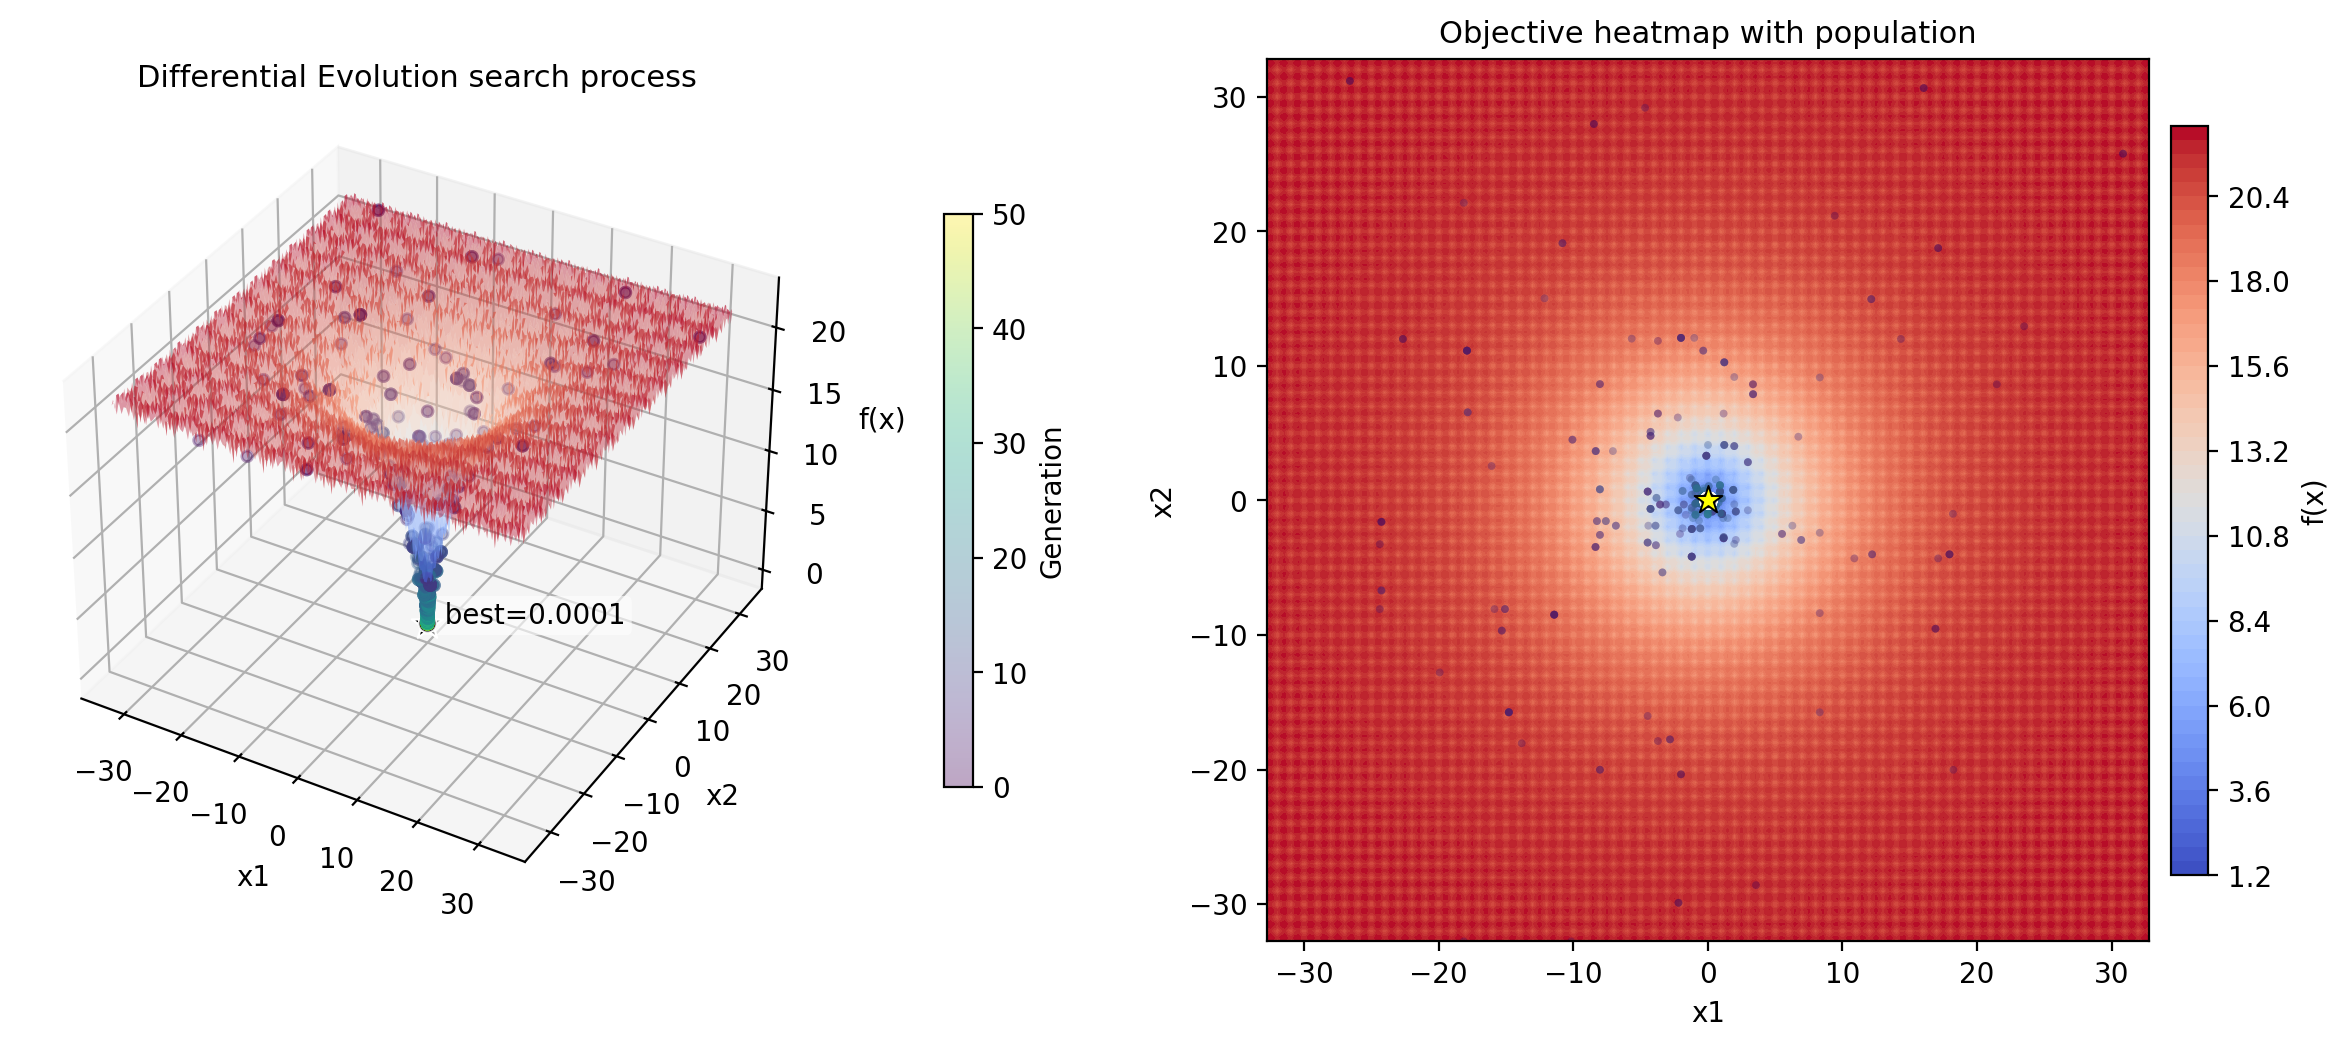
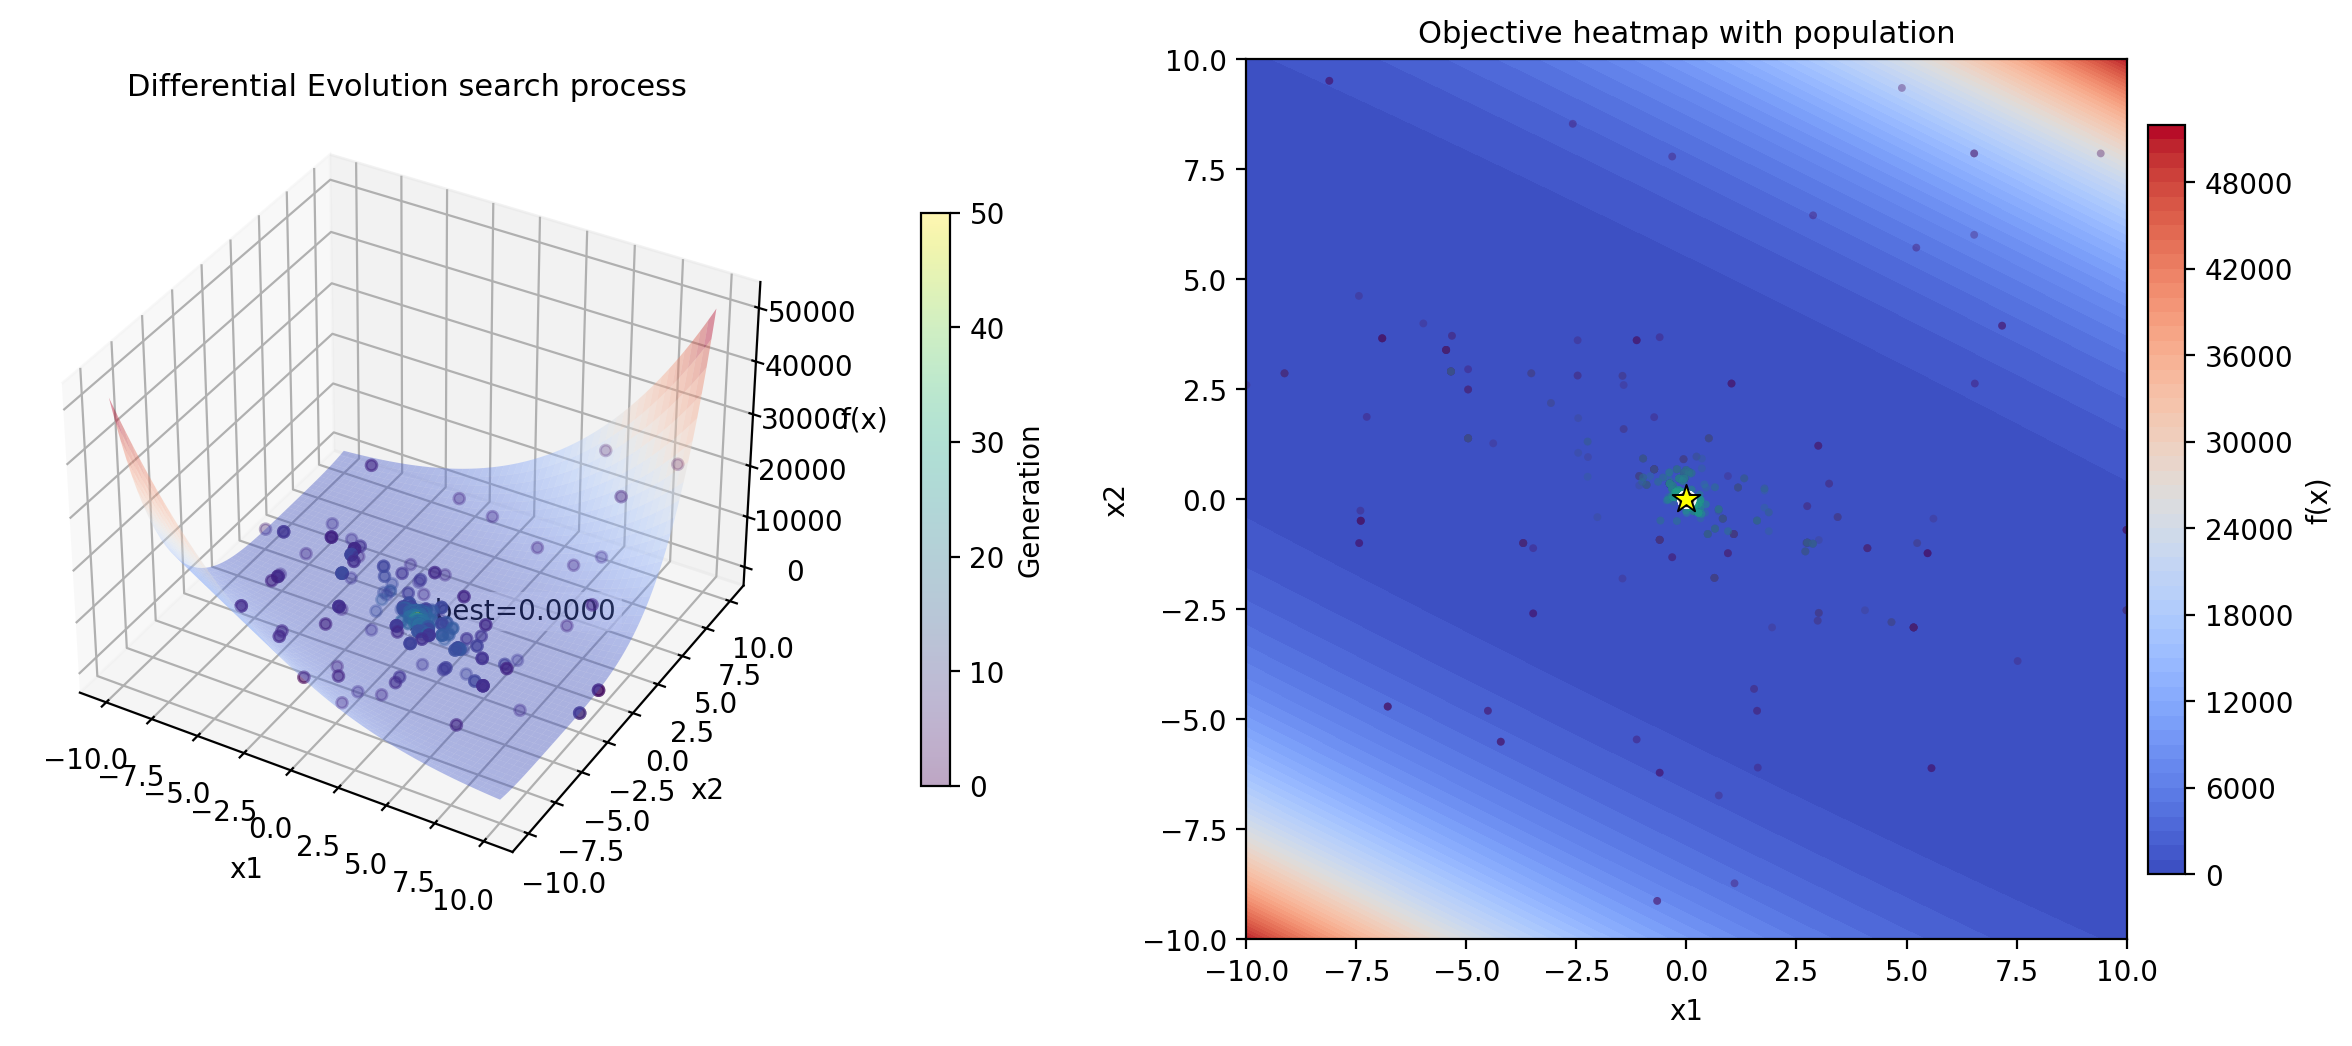
cviko6

diff --git a/particle_swarm/pso.py b/particle_swarm/pso.py
@@ -1,0 +1,119 @@
+"""Optimalizátor Particle Swarm Optimization (PSO) so zotrvačnosťou."""
+from __future__ import annotations
+
+from dataclasses import dataclass
+from typing import Callable, Sequence, Tuple
+
+import numpy as np
+
+from differential_evolution.de import _validate_bounds
+
+
+# Typ aliasy pre prehľadnosť
+Objective = Callable[[np.ndarray], float]
+Bounds = Sequence[Tuple[float, float]]
+
+
+@dataclass
+class PSOConfig:
+    """Konfigurácia pre PSO."""
+
+    population_size: int = 15   # veľkosť roja (popsize)
+    iterations: int = 50        # M_max
+    inertia_weight: float = 0.7  # w
+    cognitive_coef: float = 2.0  # c1
+    social_coef: float = 2.0     # c2
+    velocity_clamp: float | None = None  # max |v| pre každú dimenziu (symetricky)
+    seed: int | None = None
+
+
+@dataclass
+class PSOResult:
+    """Výsledok PSO optimalizácie."""
+
+    best_point: np.ndarray
+    best_value: float
+    position_history: np.ndarray   # tvar: (iterácie + 1, popsize, dims)
+    velocity_history: np.ndarray   # tvar: (iterácie + 1, popsize, dims)
+    fitness_history: np.ndarray    # tvar: (iterácie + 1, popsize)
+    best_fitness_per_iteration: np.ndarray  # najlepšia hodnota po každej iterácii
+
+
+def particle_swarm_optimization(objective: Objective, bounds: Bounds, config: PSOConfig | None = None) -> PSOResult:
+    """Spustí Particle Swarm Optimization s váhou zotrvačnosti."""
+    cfg = config or PSOConfig()
+
+    if cfg.population_size < 2:
+        raise ValueError("population_size musí byť aspoň 2.")
+    if cfg.iterations <= 0:
+        raise ValueError("iterations musí byť kladné číslo.")
+    if cfg.inertia_weight < 0:
+        raise ValueError("inertia_weight (w) musí byť nezáporné.")
+    if cfg.cognitive_coef < 0 or cfg.social_coef < 0:
+        raise ValueError("cognitive_coef a social_coef musia byť nezáporné.")
+
+    low, high = _validate_bounds(bounds)
+    dims = len(bounds)
+
+    rng = np.random.default_rng(cfg.seed)
+
+    # Inicializuj pozície častíc rovnomerne v hraniciach
+    positions = rng.uniform(low, high, size=(cfg.population_size, dims))
+    # Počiatočné rýchlosti z menšieho rozsahu (10 % šírky intervalu v každej dimenzii)
+    velocity_span = (high - low) * 0.1
+    velocities = rng.uniform(-velocity_span, velocity_span, size=(cfg.population_size, dims))
+
+    fitness = np.apply_along_axis(objective, 1, positions)
+    personal_best_positions = positions.copy()
+    personal_best_values = fitness.copy()
+
+    best_idx = int(np.argmin(personal_best_values))
+    global_best_point = personal_best_positions[best_idx].copy()
+    global_best_value = float(personal_best_values[best_idx])
+
+    pos_history = [positions.copy()]
+    vel_history = [velocities.copy()]
+    fit_history = [fitness.copy()]
+    best_curve = [global_best_value]
+
+    for _ in range(cfg.iterations):
+        r1 = rng.random(size=(cfg.population_size, dims))
+        r2 = rng.random(size=(cfg.population_size, dims))
+
+        cognitive_term = cfg.cognitive_coef * r1 * (personal_best_positions - positions)
+        social_term = cfg.social_coef * r2 * (global_best_point - positions)
+
+        velocities = cfg.inertia_weight * velocities + cognitive_term + social_term
+
+        if cfg.velocity_clamp is not None:
+            max_abs = abs(cfg.velocity_clamp)
+            velocities = np.clip(velocities, -max_abs, max_abs)
+
+        positions = positions + velocities
+        positions = np.clip(positions, low, high)
+
+        fitness = np.apply_along_axis(objective, 1, positions)
+
+        improved = fitness < personal_best_values
+        if np.any(improved):
+            personal_best_positions[improved] = positions[improved]
+            personal_best_values[improved] = fitness[improved]
+
+        best_idx = int(np.argmin(personal_best_values))
+        if personal_best_values[best_idx] < global_best_value:
+            global_best_value = float(personal_best_values[best_idx])
+            global_best_point = personal_best_positions[best_idx].copy()
+
+        pos_history.append(positions.copy())
+        vel_history.append(velocities.copy())
+        fit_history.append(fitness.copy())
+        best_curve.append(global_best_value)
+
+    return PSOResult(
+        best_point=global_best_point,
+        best_value=global_best_value,
+        position_history=np.stack(pos_history),
+        velocity_history=np.stack(vel_history),
+        fitness_history=np.stack(fit_history),
+        best_fitness_per_iteration=np.array(best_curve),
+    )

diff --git a/particle_swarm/viz.py b/particle_swarm/viz.py
@@ -1,0 +1,136 @@
+"""Vizualizačné pomôcky pre Particle Swarm Optimization."""
+from __future__ import annotations
+
+from typing import Callable, Sequence, Tuple
+
+import numpy as np
+import matplotlib.pyplot as plt
+from matplotlib.colors import Normalize
+
+from visualize import plot_surface_3d, mark_best
+from .pso import PSOResult
+
+
+Objective = Callable[[np.ndarray], float]
+Bounds = Sequence[Tuple[float, float]]
+
+
+def plot_pso_search(
+    objective: Objective,
+    bounds: Bounds,
+    result: PSOResult,
+    elev: int = 35,
+    azim: int = -60,
+    cmap: str = "viridis",
+    heatmap_cmap: str = "coolwarm",
+    heatmap_grid: int = 250,
+) -> plt.Figure:
+    """Vykreslí 3D povrch a 2D heatmapu s trajektóriou častíc."""
+    if result.position_history.shape[2] != 2:
+        raise ValueError("Vizualizácia je dostupná iba pre 2D problémy.")
+
+    fig = plt.figure(figsize=(12, 5))
+    ax_surface = fig.add_subplot(1, 2, 1, projection="3d")
+    plot_surface_3d(objective, bounds, grid_size=160, elev=elev, azim=azim, ax=ax_surface)
+
+    history = result.position_history
+    pop_size = history.shape[1]
+
+    flat_positions = history.reshape(-1, 2)
+    generations = np.repeat(np.arange(history.shape[0]), pop_size)
+    z_values = np.apply_along_axis(objective, 1, flat_positions)
+
+    scatter = ax_surface.scatter(
+        flat_positions[:, 0],
+        flat_positions[:, 1],
+        z_values,
+        c=generations,
+        cmap=cmap,
+        s=15,
+        alpha=0.35,
+    )
+
+    last_positions = history[-1]
+    last_values = np.apply_along_axis(objective, 1, last_positions)
+    ax_surface.scatter(
+        last_positions[:, 0],
+        last_positions[:, 1],
+        last_values,
+        color="black",
+        s=40,
+        alpha=0.7,
+        marker="o",
+        edgecolor="white",
+        linewidths=0.6,
+    )
+
+    mark_best(ax_surface, result.best_point, objective, label=f"best={result.best_value:.4f}")
+    ax_surface.set_title("PSO priebeh na 3D povrchu", fontsize=11)
+
+    cbar = fig.colorbar(scatter, ax=ax_surface, pad=0.12, shrink=0.65)
+    cbar.set_label("Iterácia")
+
+    # 2D heatmapa s trajektóriou častíc
+    ax_heat = fig.add_subplot(1, 2, 2)
+    x_lin = np.linspace(bounds[0][0], bounds[0][1], heatmap_grid)
+    y_lin = np.linspace(bounds[1][0], bounds[1][1], heatmap_grid)
+    X, Y = np.meshgrid(x_lin, y_lin)
+    grid_points = np.stack([X.ravel(), Y.ravel()], axis=1)
+    Z = np.apply_along_axis(objective, 1, grid_points).reshape(X.shape)
+
+    heat = ax_heat.contourf(X, Y, Z, levels=60, cmap=heatmap_cmap)
+    norm = Normalize(vmin=0, vmax=max(1, history.shape[0] - 1))
+    cmap_obj = plt.get_cmap(cmap)
+
+    # Trajektória každého jedinca v rovine XY
+    particle_colors = cmap_obj(np.linspace(0, 1, pop_size))
+    for particle_idx, color in enumerate(particle_colors):
+        path = history[:, particle_idx, :]
+        ax_heat.plot(
+            path[:, 0],
+            path[:, 1],
+            color=color,
+            alpha=0.55,
+            linewidth=1.2,
+        )
+
+    ax_heat.scatter(
+        flat_positions[:, 0],
+        flat_positions[:, 1],
+        c=cmap_obj(norm(generations)),
+        s=10,
+        alpha=0.25,
+        edgecolors="none",
+    )
+
+    ax_heat.scatter(
+        last_positions[:, 0],
+        last_positions[:, 1],
+        color="black",
+        s=35,
+        alpha=0.8,
+        edgecolors="white",
+        linewidths=0.6,
+    )
+
+    ax_heat.scatter(
+        [result.best_point[0]],
+        [result.best_point[1]],
+        color="yellow",
+        s=110,
+        marker="*",
+        edgecolors="black",
+        linewidths=0.7,
+        zorder=5,
+    )
+
+    ax_heat.set_title("PSO heatmapa a trajektórie", fontsize=11)
+    ax_heat.set_xlabel("x1")
+    ax_heat.set_ylabel("x2")
+    ax_heat.set_aspect("equal", adjustable="box")
+
+    heat_cbar = fig.colorbar(heat, ax=ax_heat, pad=0.02, shrink=0.85)
+    heat_cbar.set_label("f(x)")
+
+    fig.tight_layout()
+    return fig

diff --git a/particle_swarm/run_pso.py b/particle_swarm/run_pso.py
@@ -1,0 +1,102 @@
+from __future__ import annotations
+
+import argparse
+from pathlib import Path
+
+import numpy as np
+
+from benchmarks import (
+    sphere,
+    ackley,
+    rastrigin,
+    rosenbrock,
+    griewank,
+    schwefel,
+    levy,
+    michalewicz,
+    zakharov,
+    DEFAULT_BOUNDS,
+    get_bounds_for_dimensions,
+)
+from .pso import PSOConfig, particle_swarm_optimization
+from .viz import plot_pso_search
+
+
+NAME_TO_FUNC = {
+    "sphere": sphere,
+    "ackley": ackley,
+    "rastrigin": rastrigin,
+    "rosenbrock": rosenbrock,
+    "griewank": griewank,
+    "schwefel": schwefel,
+    "levy": levy,
+    "michalewicz": michalewicz,
+    "zakharov": zakharov,
+}
+
+
+def main() -> None:
+    parser = argparse.ArgumentParser(description="Particle Swarm Optimization (PSO) so zotrvačnosťou.")
+    parser.add_argument("function", type=str, help=f"Dostupné funkcie: {', '.join(sorted(NAME_TO_FUNC))}")
+    parser.add_argument("--dims", type=int, default=2, help="Počet dimenzií (vizualizácia podporuje iba 2).")
+    parser.add_argument("--pop", type=int, default=15, help="Veľkosť roja (popsize).")
+    parser.add_argument("--iters", type=int, default=50, help="Počet iterácií M_max.")
+    parser.add_argument("--w", type=float, default=0.7, help="Váha zotrvačnosti (inertia weight).")
+    parser.add_argument("--c1", type=float, default=2.0, help="Kognitívny koeficient c1.")
+    parser.add_argument("--c2", type=float, default=2.0, help="Sociálny koeficient c2.")
+    parser.add_argument("--vclamp", type=float, default=None, help="Maximálna absolútna rýchlosť (voliteľné).")
+    parser.add_argument("--seed", type=int, default=42, help="Náhodné semienko.")
+    parser.add_argument("--save", type=Path, default=Path("pso.png"), help="Výstupný súbor (uložený do ./img).")
+    parser.add_argument("--elev", type=int, default=35, help="Uhol elevácie 3D grafu.")
+    parser.add_argument("--azim", type=int, default=-60, help="Azimut 3D grafu.")
+    parser.add_argument("--no-plot", action="store_true", help="Preskoč vizualizáciu (iba vypíš najlepšie riešenie).")
+
+    args = parser.parse_args()
+
+    key = args.function.strip().lower()
+    if key not in NAME_TO_FUNC:
+        raise SystemExit(f"Neznáma funkcia '{args.function}'. Dostupné: {sorted(NAME_TO_FUNC.keys())}")
+
+    func = NAME_TO_FUNC[key]
+    bounds2d = DEFAULT_BOUNDS[key]
+    bounds = get_bounds_for_dimensions(bounds2d, args.dims)
+
+    def objective(v: np.ndarray) -> float:
+        return func(v)
+
+    cfg = PSOConfig(
+        population_size=args.pop,
+        iterations=args.iters,
+        inertia_weight=args.w,
+        cognitive_coef=args.c1,
+        social_coef=args.c2,
+        velocity_clamp=args.vclamp,
+        seed=args.seed,
+    )
+
+    result = particle_swarm_optimization(objective, bounds, config=cfg)
+
+    print(f"Najlepšia hodnota: {result.best_value:.6f}")
+    print(f"Najlepší bod: {np.array2string(result.best_point, precision=4)}")
+
+    if args.no_plot or args.dims != 2:
+        if args.dims != 2:
+            print("Vizualizácia je k dispozícii iba pre 2D problémy. Spusť s --dims 2.")
+        return
+
+    fig = plot_pso_search(objective, bounds, result, elev=args.elev, azim=args.azim)
+
+    project_root = Path(__file__).resolve().parents[1]
+    img_dir = project_root / "img"
+    img_dir.mkdir(parents=True, exist_ok=True)
+    filename = args.save.name if args.save.name else f"{key}_pso.png"
+    if Path(filename).suffix == "":
+        filename = f"{filename}.png"
+    out_path = img_dir / filename
+
+    fig.savefig(out_path, dpi=200, bbox_inches="tight")
+    print(f"Obrázok uložený do {out_path}")
+
+
+if __name__ == "__main__":
+    main()

diff --git a/differential_evolution/de.py b/differential_evolution/de.py
@@ -1,14 +1,3 @@
-"""Optimalizátor Differential Evolution (DE/rand/1/bin).
-
-Implementácia kopíruje pseudokód z prednášky:
-    - populácia reálnych vektorov sa vyvíja pomocou diferenciálnej mutácie
-    - mutačný vektor v = x_r1 + F * (x_r2 - x_r3)
-    - binomálne kríženie s garanciou aspoň jednej mutantnej zložky
-    - chamtivý výber medzi cieľovým vektorom a trial vektorom
-
-Funkcia ukladá kompletnú históriu populácie, aby bolo možné neskôr vizualizovať
-proces hľadania (napr. na povrchovom grafe v 2D).
-"""
 from __future__ import annotations
 
 from dataclasses import dataclass

diff --git a/particle_swarm/__init__.py b/particle_swarm/__init__.py
@@ -1,0 +1,6 @@
+"""Modul s implementáciou Particle Swarm Optimization."""
+
+from .pso import PSOConfig, PSOResult, particle_swarm_optimization
+from .viz import plot_pso_search
+
+__all__ = ["PSOConfig", "PSOResult", "particle_swarm_optimization", "plot_pso_search"]
